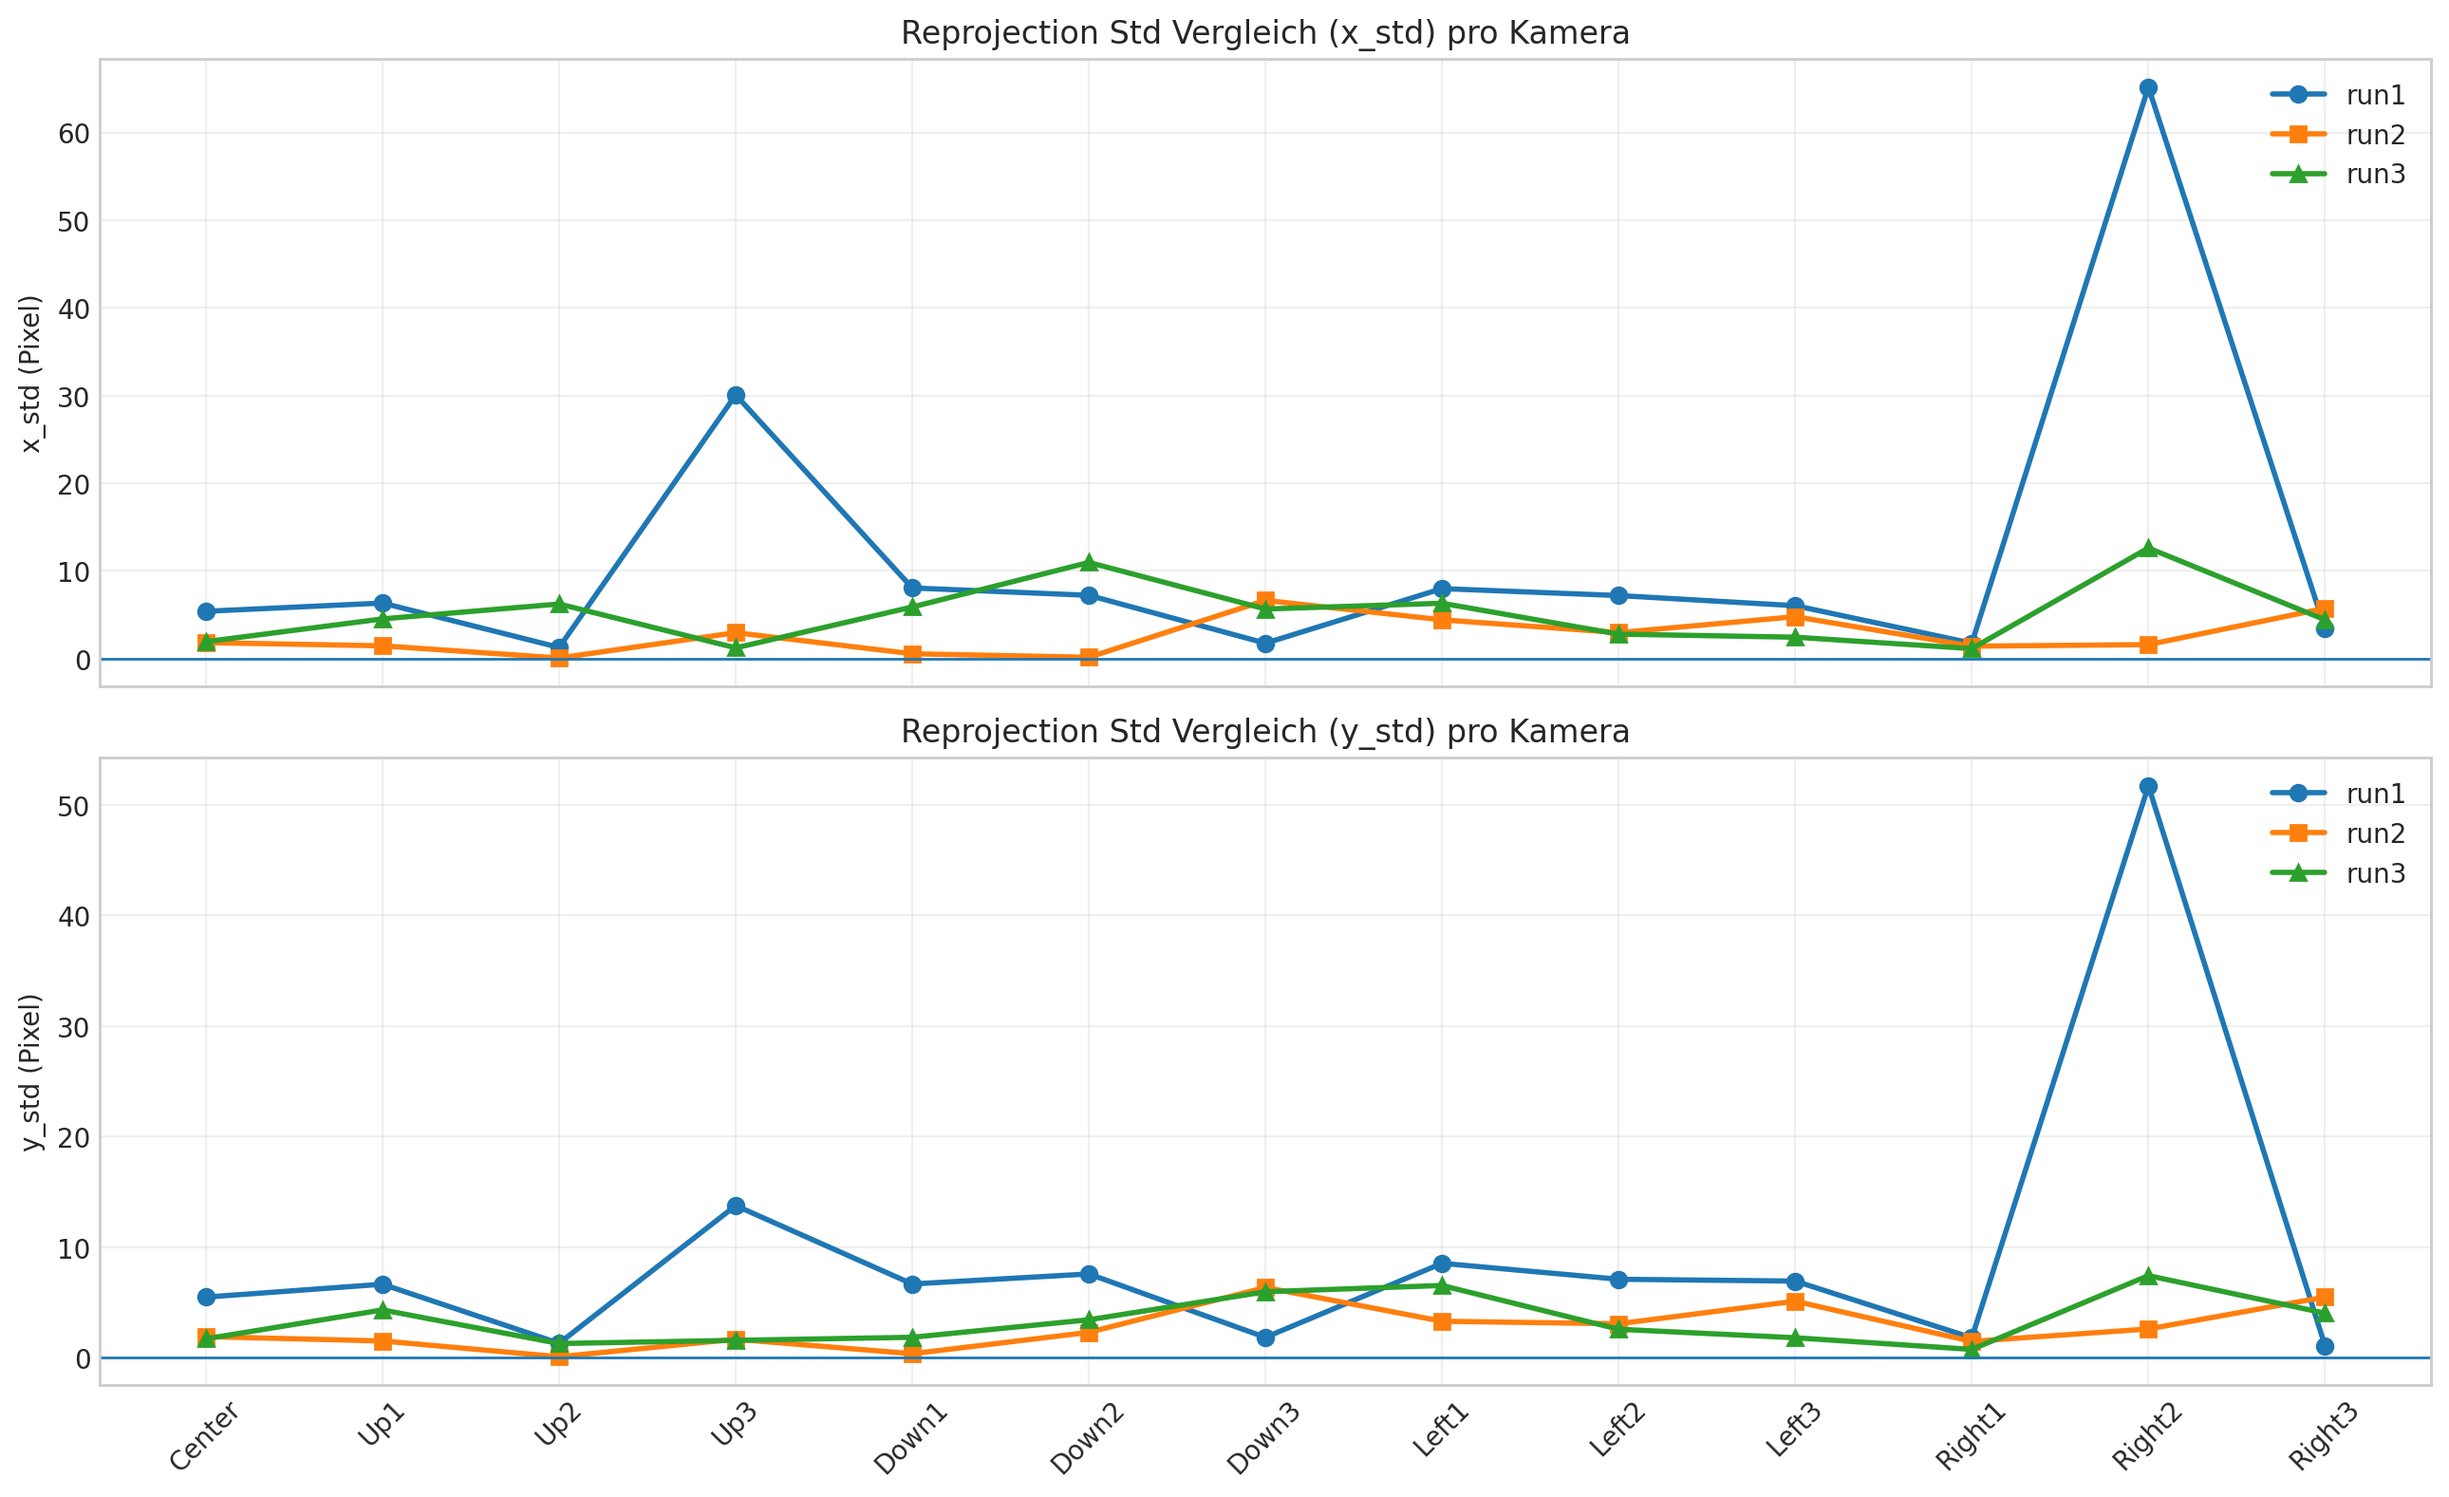
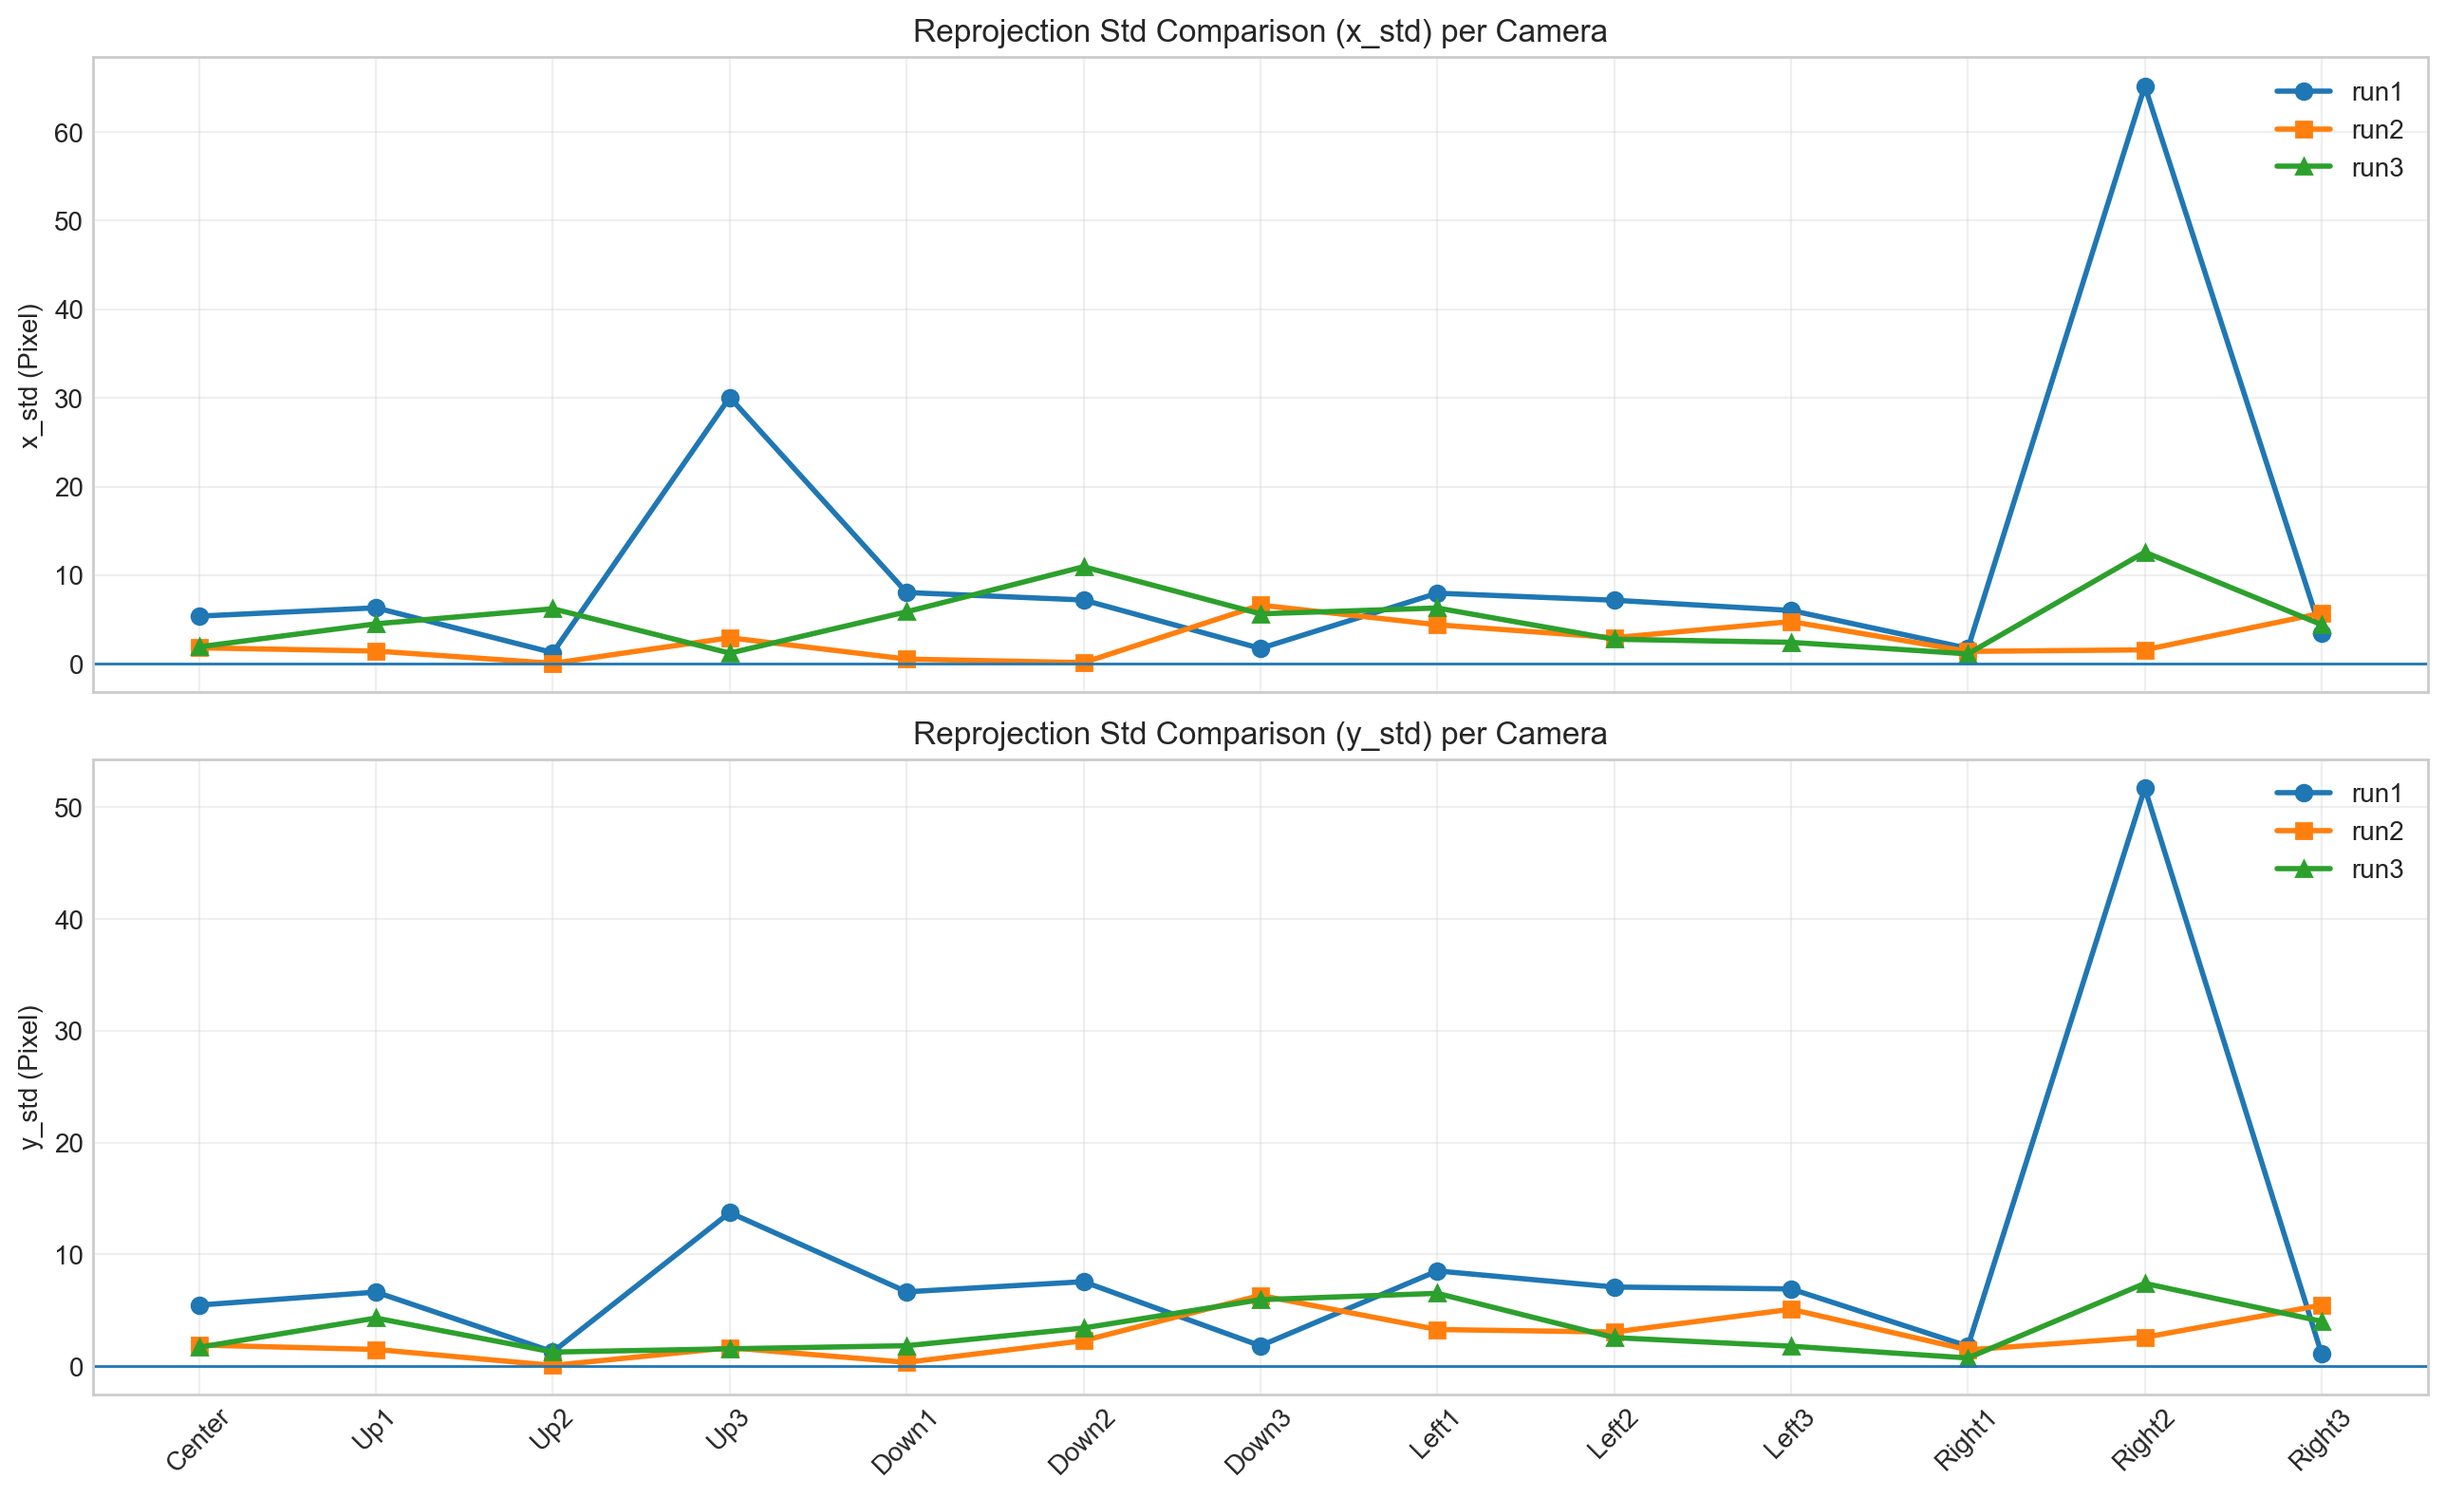
Lifcal plots changed in englisch

diff --git a/calibrationLFC/plots/LiFCal_Calibration/compare_all_lifcal.py b/calibrationLFC/plots/LiFCal_Calibration/compare_all_lifcal.py
@@ -98,7 +98,7 @@ def main():
         )
     ax.axhline(0, linewidth=1)
     ax.set_ylabel("x_std (Pixel)")
-    ax.set_title("Reprojection Std Vergleich (x_std) pro Kamera")
+    ax.set_title("Reprojection Std Comparison (x_std) per Camera")
     ax.grid(alpha=0.3)
     ax.legend()
 
@@ -114,7 +114,7 @@ def main():
         )
     ax.axhline(0, linewidth=1)
     ax.set_ylabel("y_std (Pixel)")
-    ax.set_title("Reprojection Std Vergleich (y_std) pro Kamera")
+    ax.set_title("Reprojection Std Comparison (y_std) per Camera")
     ax.grid(alpha=0.3)
     ax.legend()
 

diff --git a/calibrationLFC/plots/LiFCal_Calibration/comparison_reprojection_initial_LiFCal.py b/calibrationLFC/plots/LiFCal_Calibration/comparison_reprojection_initial_LiFCal.py
@@ -99,7 +99,7 @@ def main():
 
     plt.xticks(x, cams_init, rotation=45)
     plt.ylabel("Reprojection Error (Pixel)")
-    plt.title("Reprojection Error Vergleich: Initial vs. LiFCal")
+    plt.title("Reprojection Error Comparison: Initial vs. LiFCal")
     plt.grid(alpha=0.3)
     plt.legend()
 

diff --git a/calibrationLFC/plots/LiFCal_Calibration/reprjectionLiFCal.py b/calibrationLFC/plots/LiFCal_Calibration/reprjectionLiFCal.py
@@ -67,7 +67,7 @@ def main():
 
     plt.xticks(x, cams, rotation=45)
     plt.ylabel("Reprojection Std (Pixel)")
-    plt.title("Reprojection Standardabweichung pro Kamera")
+    plt.title("Reprojection Standard Deviation per Camera")
     plt.grid(alpha=0.3)
     plt.legend()
 
